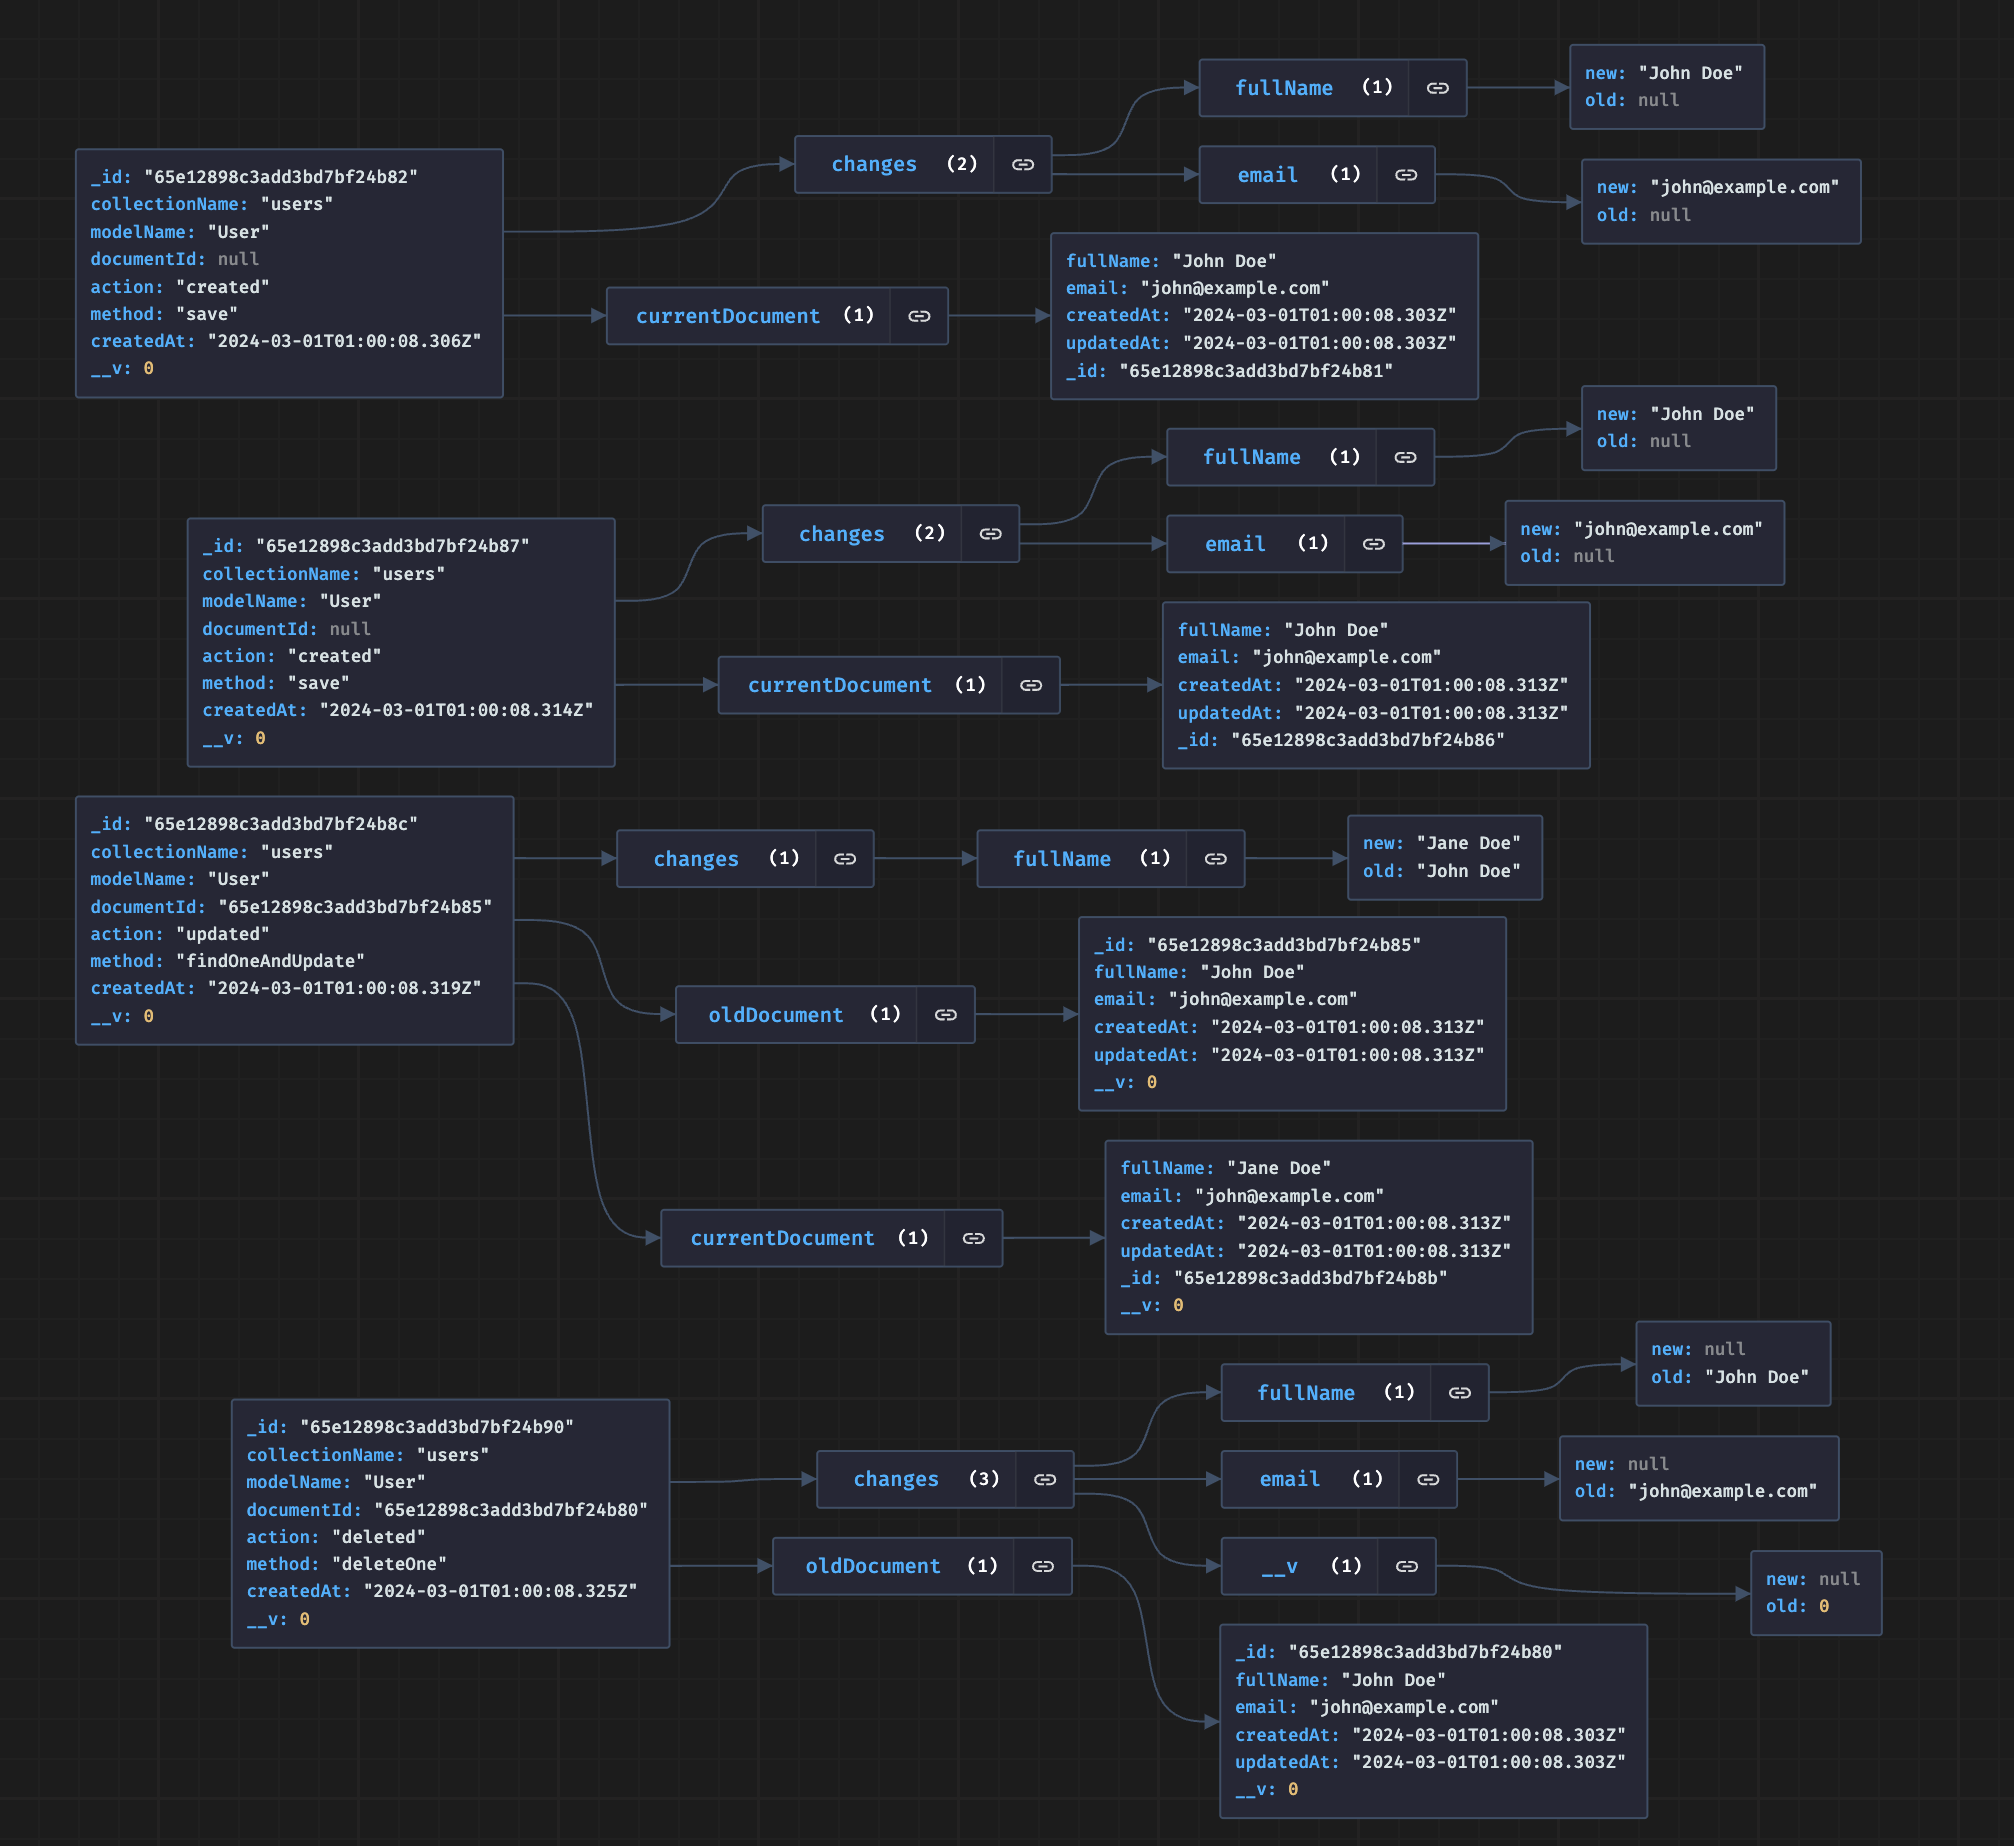
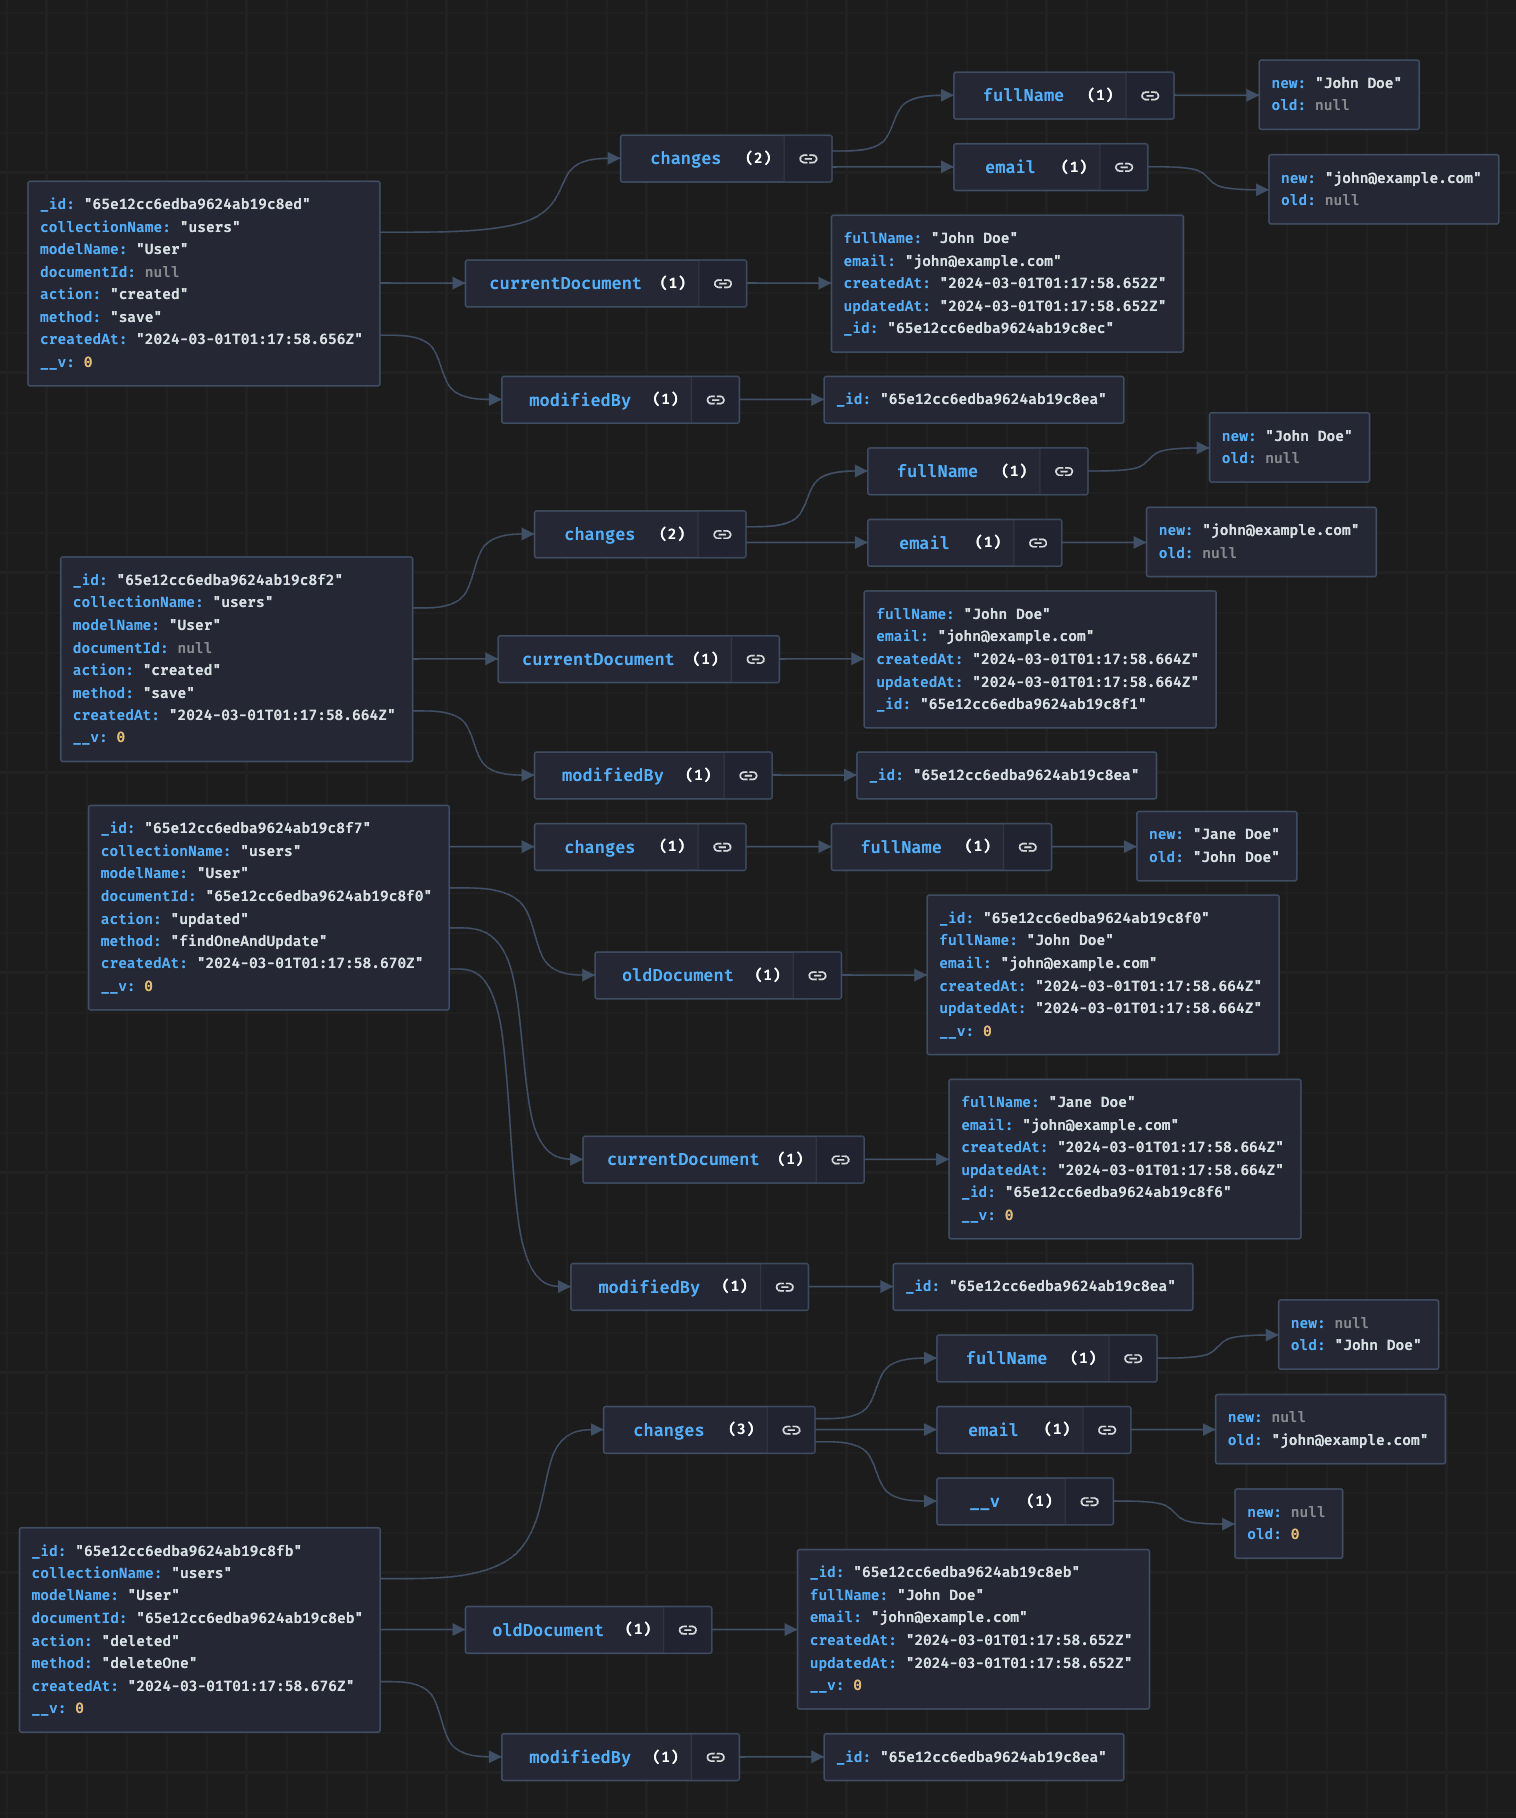
test with contextService

Changed region(s): [[0.0, 0.0, 0.9921, 0.9857], [0.0, 0.0616, 0.248, 0.2156], [0.31, 0.9549, 0.496, 0.9857]]

diff --git a/test/unit/models/history.model.test.ts b/test/unit/models/history.model.test.ts
@@ -1,7 +1,21 @@
-import mongoose from 'mongoose';
+import mongoose, { Types } from 'mongoose';
 import { MongoMemoryServer } from 'mongodb-memory-server';
 import UserModel from './basicUser.schema';
 import { initializeDefaultSchema } from '../../../src/index';
+import contextService from 'request-context';
+
+jest.mock('request-context', () => {
+  const actualContextService = jest.requireActual('request-context');
+  let context = {};
+  return {
+    ...actualContextService,
+    get: jest.fn((path) => context[path]),
+    set: jest.fn((path, value) => {
+      context[path] = value;
+    }),
+    middleware: jest.fn(() => (req, res, next) => next()),
+  };
+});
 
 let mongod: MongoMemoryServer;
 let HistoryModel: mongoose.Model<any>;
@@ -12,6 +26,11 @@ beforeAll(async () => {
   await mongoose.connect(uri);
 
   mongoose.set('debug', false);
+
+  // Mocked user info, you could change this to be dynamic if needed
+  const mockUserId = new Types.ObjectId();
+  const contextService = require('request-context');
+  contextService.set('request:userInfo', { _id: mockUserId });
 
   // Initialize the history model with the current Mongoose connection
   HistoryModel = initializeDefaultSchema({
